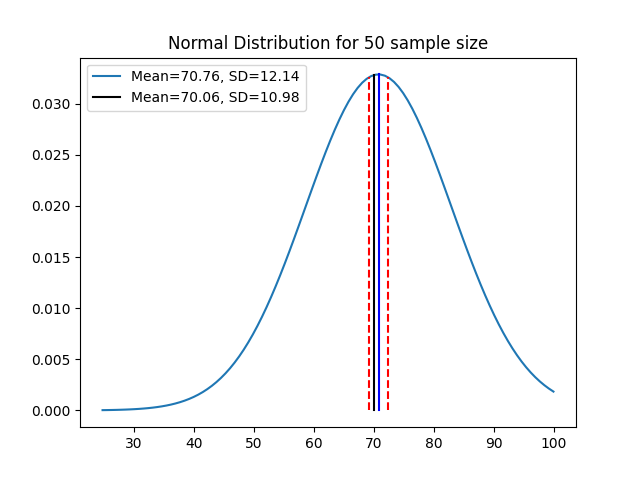
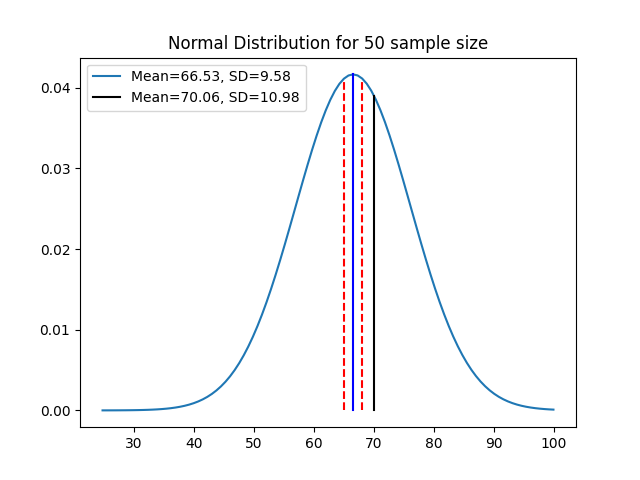
finish ex6

diff --git a/confidence_interval_and_sampling_statistics/main.py b/confidence_interval_and_sampling_statistics/main.py
@@ -74,7 +74,7 @@ for x, y, percentage in zip(x_values, y_values, estimated_standard_error_percent
     plt.text(x, y, str(round(percentage, 2)) + '%', color='blue')
 plt.errorbar([size - offset for size in sample_sizes], sample_means, yerr=standard_errors, fmt='o', label='95% SE confidence interval')
 plt.errorbar(sample_sizes, sample_means, yerr=estimated_standard_errors, fmt='o-', label='95% Estimated SE confidence interval')
-plt.axhline(y=mean, color='blue', linestyle='--', label='True mean')
+plt.axhline(y=mean, color='blue', linestyle='--', label='Population mean')
 plt.title('Estimated of Mean Scores')
 plt.xlabel('Sample Size')
 plt.ylabel('Scores')
@@ -83,18 +83,35 @@ plt.yticks(np.arange(65, 75, 1))
 plt.legend()
 plt.savefig('Estimated of Mean Scores.png')
 
-plt.figure()
-x = np.linspace(min(scores), max(scores), 100)
-y = norm.pdf(x, sample_means[0], sample_std_devs[0])
-plt.plot(x, y, label='Mean={:.2f}, SD={:.2f}'.format(sample_means[0], sample_std_devs[0]))
-plt.title('Normal Distribution for 50 sample size')
-y_mean = norm.pdf(sample_means[0], sample_means[0], sample_std_devs[0])
-plt.plot([sample_means[0], sample_means[0]], [0, y_mean], color='blue')
-y_std_dev1 = norm.pdf(sample_means[0] + standard_errors[0], sample_means[0], sample_std_devs[0])
-y_std_dev2 = norm.pdf(sample_means[0] - standard_errors[0], sample_means[0], sample_std_devs[0])
-plt.plot([sample_means[0] + standard_errors[0], sample_means[0] + standard_errors[0]], [0, y_std_dev1], color='red', linestyle='dashed')
-plt.plot([sample_means[0] - standard_errors[0], sample_means[0] - standard_errors[0]], [0, y_std_dev2], color='red', linestyle='dashed')
-y_mean = norm.pdf(mean, sample_means[0], sample_std_devs[0])
-plt.plot([mean, mean], [0, y_mean], color='black', label='Mean={:.2f}, SD={:.2f}'.format(mean, std_dev))
-plt.legend()
-plt.savefig('Normal Distribution for 50 sample size.png')
+name1 = ['50', '200', '500']
+for i in range(3):
+    plt.figure()
+    x = np.linspace(min(scores), max(scores), 100)
+    y = norm.pdf(x, sample_means[i], sample_std_devs[i])
+    plt.plot(x, y, label='Mean={:.2f}, SD={:.2f}'.format(sample_means[i], sample_std_devs[i]))
+    plt.title('Normal Distribution for ' + name1[i] + ' sample size')
+    y_mean = norm.pdf(sample_means[i], sample_means[i], sample_std_devs[i])
+    plt.plot([sample_means[i], sample_means[i]], [0, y_mean], color='blue')
+    y_std_dev1 = norm.pdf(sample_means[i] + standard_errors[0], sample_means[i], sample_std_devs[i])
+    y_std_dev2 = norm.pdf(sample_means[i] - standard_errors[0], sample_means[i], sample_std_devs[i])
+    plt.plot([sample_means[i] + standard_errors[0], sample_means[i] + standard_errors[0]], [0, y_std_dev1], color='red', linestyle='dashed')
+    plt.plot([sample_means[i] - standard_errors[0], sample_means[i] - standard_errors[0]], [0, y_std_dev2], color='red', linestyle='dashed')
+    y_mean = norm.pdf(mean, sample_means[i], sample_std_devs[i])
+    plt.plot([mean, mean], [0, y_mean], color='black', label='Mean={:.2f}, SD={:.2f}'.format(mean, std_dev))
+    plt.legend()
+    plt.savefig('Normal Distribution for ' + name1[i] + ' sample size.png')
+print('-' * 50)
+
+for i in range(3):
+    print('Normal Distribution for ' + name1[i] + ' sample size')
+    aa = sample_means[i] + 1.96 * sample_std_devs[i]
+    bb = sample_means[i] - 1.96 * sample_std_devs[i]
+    print('Estimated number of scores above 60 is: ' + str(int(round(norm.sf(60, sample_means[i], sample_std_devs[i]) * 12500))) + ', around ' + str(int(round(norm.sf(60, sample_means[i], sample_std_devs[i]) * 100))) + '%')
+    num_scores_within_range = sum(sample_means[i] - 1.96*sample_std_devs[i] <= score <= sample_means[i] + 1.96*sample_std_devs[i] for score in scores)
+    print(f'Estimated 95% number of scores between mu-1.96*sigma and mu+1.96*sigma is: {num_scores_within_range}')
+    num_scores_below_range = sum(score < sample_means[i] - 1.96*sample_std_devs[i] for score in scores)
+    print(f'Number of scores below mu-1.96*sigma({round(sample_means[i] - 1.96*sample_std_devs[i], 2)}) is: {num_scores_below_range}')
+    num_scores_above_range = sum(score > sample_means[i] + 1.96*sample_std_devs[i] for score in scores)
+    print(f'Number of scores above mu+1.96*sigma({round(sample_means[i] + 1.96*sample_std_devs[i], 2)}) is: {num_scores_above_range}')
+    if i < 2:
+        print('-' * 50)
